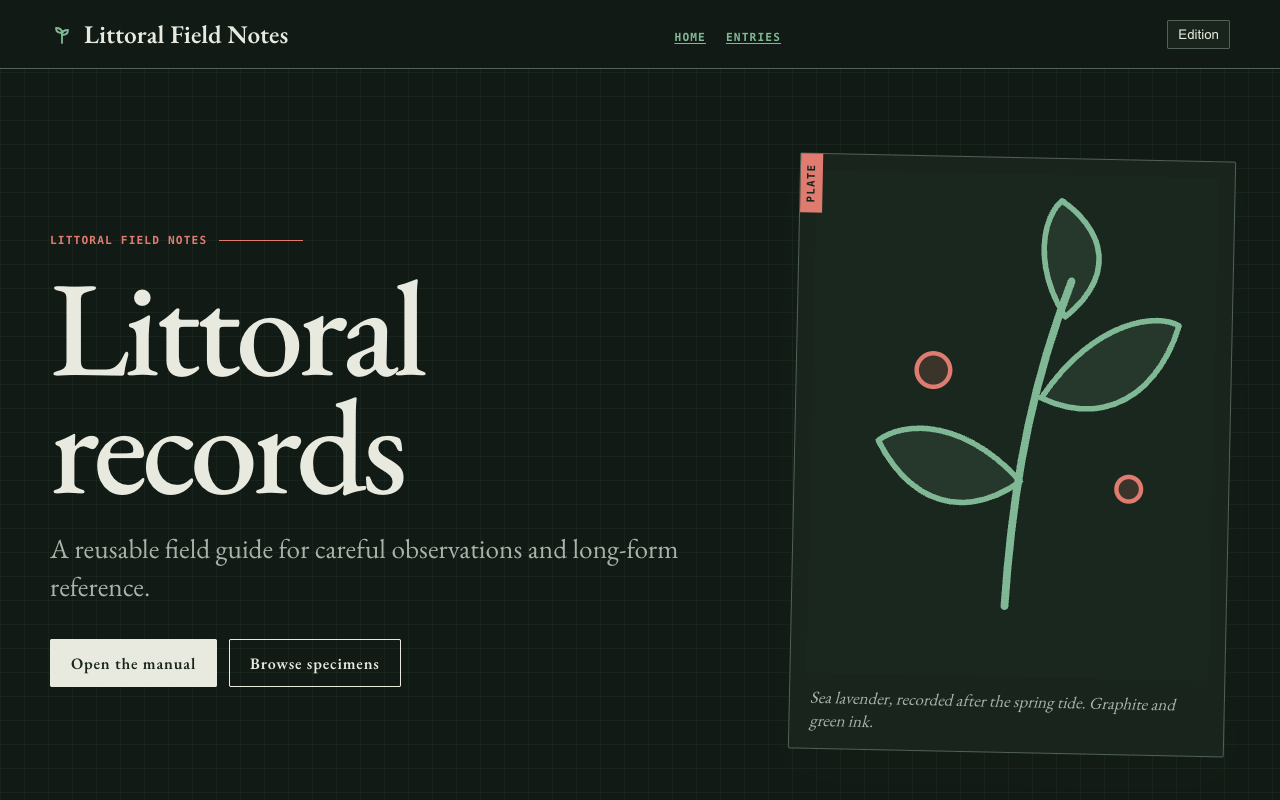
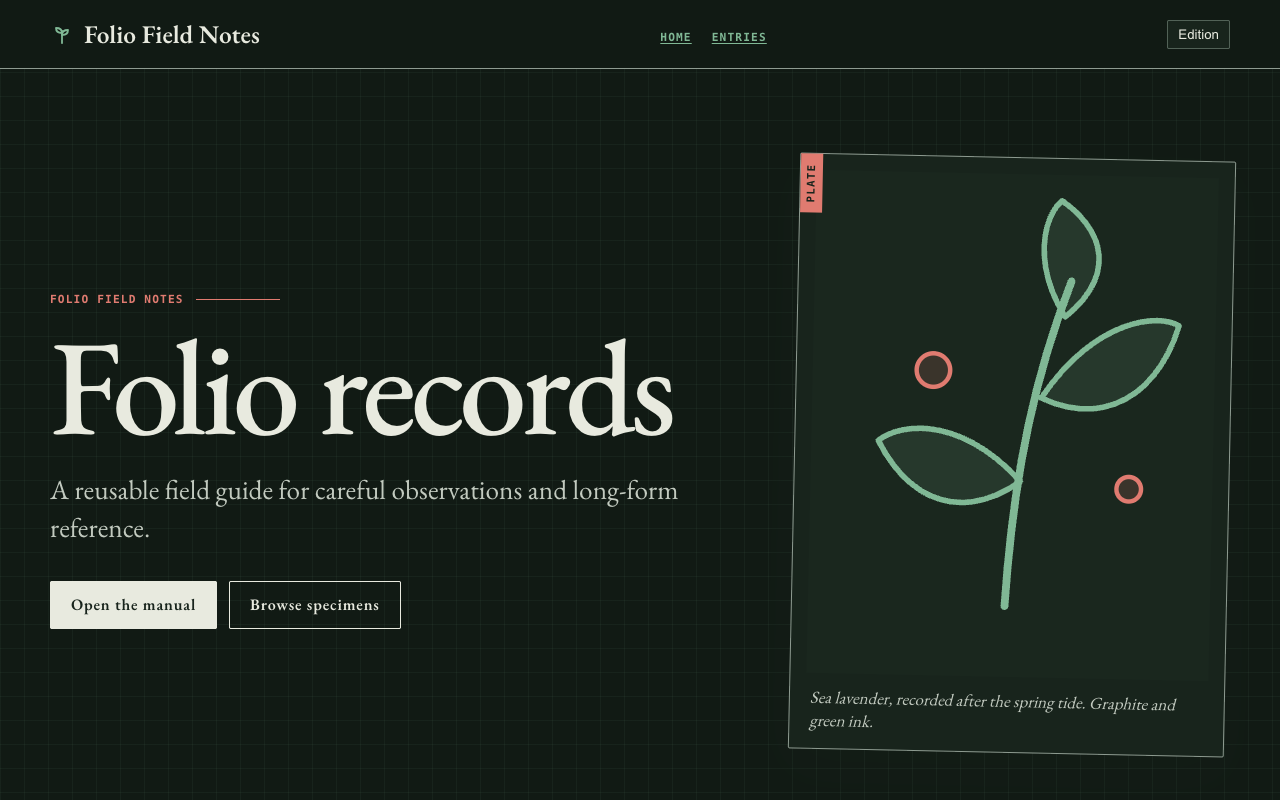
Name every theme example after its theme; enrich the Lattice example
Examples used three naming conventions; a previewer could not tell
which theme a page was demonstrating. Sprout, Kiteframe, Littoral
Field Notes and My Blog become Bloom, Meadow, Folio Field Notes and
Verdant Blog, renamed through the body copy so the header and the
content agree.

Meadow's terminal chrome hardcoded "kiteframe · quickstart" in the
layout, putting a demo brand in every site built with the theme; it now
reads cta.terminal_label, falling back to the site title.

Lattice's example set none of the theme's hero params, so it rendered
defaults and a one-line body next to the real site's full landing page.

diff --git a/themes/meadow/layouts/home.html b/themes/meadow/layouts/home.html
@@ -111,7 +111,8 @@
   <section class="section start" id="start" tl:if="${page.cta}"><div class="wrap"><header class="section-head">
     <span class="kicker lime" tl:text="${page.cta.eyebrow}">Start</span><h2 tl:text="${page.cta.title}">Title</h2>
     <p tl:text="${page.cta.body}">Body</p></header><div class="terminal"><div class="terminal-top">
-    <span aria-hidden="true">● ● ●</span><span>kiteframe · quickstart</span></div>
+    <span aria-hidden="true">● ● ●</span><span
+    tl:text="${page.cta.terminal_label} ?: ${site.title}">Terminal</span></div>
     <div class="command-row"><span class="prompt" aria-hidden="true">$</span><code class="command"
     id="install-command" tl:text="${page.cta.command}">command</code><button class="copy-button" type="button"
     data-copy hidden>Copy</button></div></div><p class="start-note" tl:text="${page.cta.note}">Note</p></div></section>

diff --git a/test/folio_theme_contract_test.dart b/test/folio_theme_contract_test.dart
@@ -407,7 +407,7 @@ $trellis-show-sidenotes: false;
 
     final logo = home.querySelector('.site-title img.site-logo')!;
     expect(logo.attributes['src'], '/trellis/brand/mark.svg');
-    expect(logo.attributes['alt'], 'Littoral Field Notes');
+    expect(logo.attributes['alt'], 'Folio Field Notes');
     expect(home.querySelector('.site-title svg.site-mark'), isNull, reason: 'built-in sprout must step aside');
 
     // Unset keys keep the theme's own artwork rather than emitting an empty <img>.

diff --git a/themes/bloom/example/content/_index.md b/themes/bloom/example/content/_index.md
@@ -1,17 +1,17 @@
 ---
-title: Sprout
+title: Bloom
 layout: home
 description: The calm note-taking app that grows with your ideas.
 
 hero:
-  eyebrow: New — Sprout 2.0
+  eyebrow: New — Bloom 2.0
   title: |
     Notes that grow<br>into something bigger
   subtitle: A calmer place to think.
-  lede: Sprout turns scattered thoughts into structured knowledge — no folders to
+  lede: Bloom turns scattered thoughts into structured knowledge — no folders to
     fuss over, no lock-in, just a quiet space that keeps up with you.
   image: /img/hero.svg
-  image_alt: A Sprout workspace with linked notes
+  image_alt: A Bloom workspace with linked notes
   ctas:
     - label: Start free
       href: "#pricing"
@@ -45,19 +45,19 @@ features:
     body: Markdown in, Markdown out. Works alongside the tools you already trust.
 
 showcase:
-  title: See Sprout in action
+  title: See Bloom in action
   subtitle: A workspace that stays calm even when your ideas don't.
 
 sections:
   - eyebrow: Capture
     title: From fleeting thought to lasting note
-    body: A global shortcut drops you into a blank note anywhere. Sprout remembers
+    body: A global shortcut drops you into a blank note anywhere. Bloom remembers
       where you were and what you were doing, so capture never breaks your flow.
     image: /img/panel-a.svg
     image_alt: Quick-capture panel
   - eyebrow: Connect
     title: Your notes, quietly linked
-    body: As you write, Sprout suggests connections to what you already know.
+    body: As you write, Bloom suggests connections to what you already know.
       Backlinks and an ambient graph reveal structure you didn't plan.
     image: /img/panel-b.svg
     image_alt: Linked notes graph
@@ -65,17 +65,17 @@ sections:
   - eyebrow: Trust
     title: Built to outlive any app
     body: Everything is plain Markdown on your disk. Export the whole vault in one
-      click. If Sprout ever disappears, your knowledge doesn't.
+      click. If Bloom ever disappears, your knowledge doesn't.
 
 pricing:
   title: Simple, honest pricing
-  subtitle: Start free. Upgrade when Sprout earns it.
+  subtitle: Start free. Upgrade when Bloom earns it.
   note: Prices in USD. Cancel anytime — your notes stay yours.
   tiers:
     - name: Seedling
       price: Free
       period: forever
-      description: Everything you need to start thinking in Sprout.
+      description: Everything you need to start thinking in Bloom.
       features:
         - Unlimited local notes
         - Full-text search
@@ -117,7 +117,7 @@ faq:
       a: Yes. Notes are stored as plain Markdown files on your device. Sync is an
         optional, end-to-end encrypted layer on top — never a requirement.
     - q: Can I import from other apps?
-      a: If it exports Markdown or plain text, Sprout can read it. We ship importers
+      a: If it exports Markdown or plain text, Bloom can read it. We ship importers
         for the most common note apps.
     - q: What happens if I cancel?
       a: Nothing happens to your notes — they're already on your disk. Paid features
@@ -134,6 +134,6 @@ cta_band:
     href: "#"
 ---
 
-Sprout began as a weekend project to escape folder-shaped thinking. Today it helps
+Bloom began as a weekend project to escape folder-shaped thinking. Today it helps
 thousands of writers, researchers, and builders turn scattered notes into
 knowledge they can actually find again.

diff --git a/themes/meadow/example/content/_index.md b/themes/meadow/example/content/_index.md
@@ -1,5 +1,5 @@
 ---
-title: Kiteframe
+title: Meadow
 layout: home
 description: Turn scattered customer signals into the next thing worth building.
 hero:
@@ -8,7 +8,7 @@ hero:
     prefix: Turn scattered customer signals into the next thing
     emphasis: worth building.
     suffix: ""
-  lede: Kiteframe brings interviews, support notes, and product ideas into one calm workspace – then helps your team see the patterns worth acting on.
+  lede: Meadow brings interviews, support notes, and product ideas into one calm workspace – then helps your team see the patterns worth acting on.
   ctas:
     - {label: Start free, href: "#start", style: primary}
     - {label: See the workflow, href: "#workflow", style: secondary}
@@ -21,7 +21,7 @@ proof:
     - {value: One source, label: from insight to roadmap}
     - {value: Private by default, label: your data stays yours}
 features:
-  eyebrow: Why Kiteframe
+  eyebrow: Why Meadow
   title: Enough structure to find the signal. Never enough to slow the work.
   body: Start with two focused cards or grow to six. The layout stays balanced as your product story expands.
   items:
@@ -53,12 +53,13 @@ use_cases:
     - {label: 02 · DECIDE, title: Opportunity map, body: Compare evidence and confidence before a promise is made., href: "#start"}
     - {label: 03 · SHARE, title: Release story, body: Close the loop with a clear update tied to the original need., href: "#start"}
 quote:
-  text: Kiteframe gave our roadmap a memory. We make faster calls because the evidence is never more than one click away.
+  text: Meadow gave our roadmap a memory. We make faster calls because the evidence is never more than one click away.
   attribution: Marin Cho · VP Product at Northstar Labs
 cta:
   eyebrow: Developer-friendly
   title: Bring customer context into the tools you already use.
-  body: Start with the SDK, or connect Kiteframe from your workspace in a few minutes.
-  command: dart pub add kiteframe_sdk
+  body: Start with the SDK, or connect Meadow from your workspace in a few minutes.
+  command: dart pub add meadow_sdk
+  terminal_label: meadow · quickstart
   note: No credit card · sandbox workspace included · export whenever you like
 ---

diff --git a/themes/meadow/README.md b/themes/meadow/README.md
@@ -55,12 +55,13 @@ Meadow implements all 18 [standard params](../../docs/reference/standard-params.
 | `workflow` | `eyebrow`, `title`, `body`, `signals[].{initials,name,source,text,tag}`, `insight.{label,title,body,confidence}` |
 | `use_cases` | `eyebrow`, `title`, `body`, `items[].{label,title,body,href}` |
 | `quote` | `text`, `attribution` |
-| `cta` | `eyebrow`, `title`, `body`, `command`, `note` |
+| `cta` | `eyebrow`, `title`, `body`, `command`, `note`, optional `terminal_label` |
 
 Only `headline.emphasis` receives Meadow's theme-owned marker. Supplying `hero.media` enables the illustration slot;
 without it, a split hero centers and reserves no media gap. Add `media.src` — a prefix-relative image path — to mount
 your own artwork there; with only `media.alt` the theme-owned trellis drawing is used. Markdown below front matter
-renders once.
+renders once. `cta.terminal_label` names the terminal chrome and falls back to the site title, so no demo brand
+is baked into the layout.
 Each optional block may be omitted independently and removes its wrapper and spacing.
 
 Feature lists support exactly the authored 2–6 cards, cycling four treatments in a three-column desktop and

diff --git a/themes/lattice/example/content/_index.md b/themes/lattice/example/content/_index.md
@@ -1,7 +1,12 @@
 ---
-title: Lattice Preview
+title: Lattice
 layout: home
-description: A complete home and documentation experience for Trellis sites.
+description: A complete home and documentation experience for one Trellis theme.
 ---
 
-This authored body proves that Lattice preserves home-page Markdown content.
+Everything below the hero is ordinary page content. Lattice renders a landing page and a full documentation
+surface from the same theme, so the marketing page and the reference material share one visual language
+instead of drifting apart.
+
+Sections, the in-page index, and previous/next travel all come from the content tree — add a folder and the
+navigation follows.

diff --git a/themes/bloom/example/content/privacy.md b/themes/bloom/example/content/privacy.md
@@ -1,6 +1,6 @@
 ---
 title: Privacy
-description: How Sprout handles your data — the short, honest version.
+description: How Bloom handles your data — the short, honest version.
 ---
 
 ## The short version
@@ -10,7 +10,7 @@ We can't read them, we don't sell them, and we never train anything on them.
 
 ## What we collect
 
-When you use Sprout without an account, we collect **nothing**. No telemetry, no
+When you use Bloom without an account, we collect **nothing**. No telemetry, no
 analytics, no phone-home.
 
 If you opt into encrypted sync, we store an end-to-end encrypted blob so your

diff --git a/themes/meadow/example/fixtures/hero-image/_index.md b/themes/meadow/example/fixtures/hero-image/_index.md
@@ -1,10 +1,10 @@
 ---
-title: Kiteframe
+title: Meadow
 layout: home
 hero:
   headline: {prefix: Ship, emphasis: today., suffix: ""}
   lede: A landing page that supplies its own hero artwork.
   ctas: [{label: Start, href: "#start", style: primary}]
   media: {src: art/hero.webp, alt: Product screenshot}
-cta: {eyebrow: Start, title: Ready., body: Begin now., command: dart pub add kiteframe_sdk, note: Local and fast.}
+cta: {eyebrow: Start, title: Ready., body: Begin now., command: dart pub add meadow_sdk, note: Local and fast.}
 ---

diff --git a/themes/meadow/example/fixtures/copy-short/_index.md b/themes/meadow/example/fixtures/copy-short/_index.md
@@ -1,5 +1,5 @@
 ---
-title: Kiteframe
+title: Meadow
 layout: home
 hero:
   headline: {prefix: Ship, emphasis: today., suffix: ""}
@@ -10,5 +10,5 @@ features:
   title: Clear choices.
   body: Ready.
   items: [{icon: ✦, title: Fast, body: Ready now.}, {icon: ✓, title: Clear, body: Ship today.}]
-cta: {eyebrow: Start, title: Ready., body: Begin now., command: dart pub add kiteframe_sdk, note: Local and fast.}
+cta: {eyebrow: Start, title: Ready., body: Begin now., command: dart pub add meadow_sdk, note: Local and fast.}
 ---

diff --git a/themes/meadow/example/fixtures/no-media/_index.md b/themes/meadow/example/fixtures/no-media/_index.md
@@ -5,5 +5,5 @@ hero:
   headline: {prefix: Centered, emphasis: naturally., suffix: ""}
   lede: This split-configured hero has no media and reserves no gap.
   ctas: [{label: Start, href: "#start", style: primary}]
-cta: {eyebrow: Start, title: Ready., body: Begin., command: dart pub add kiteframe_sdk, note: No media required.}
+cta: {eyebrow: Start, title: Ready., body: Begin., command: dart pub add meadow_sdk, note: No media required.}
 ---

diff --git a/themes/meadow/example/fixtures/copy-long/_index.md b/themes/meadow/example/fixtures/copy-long/_index.md
@@ -1,5 +1,5 @@
 ---
-title: Kiteframe
+title: Meadow
 layout: home
 hero:
   headline:
@@ -20,6 +20,6 @@ cta:
   eyebrow: Developer-friendly
   title: Bring the complete workflow into the tools your growing team already uses.
   body: Start with the SDK and add only what the product needs.
-  command: dart pub add kiteframe_sdk
+  command: dart pub add meadow_sdk
   note: No client framework or Node-based build chain required.
 ---

diff --git a/themes/meadow/example/content/about.md b/themes/meadow/example/content/about.md
@@ -1,9 +1,9 @@
 ---
-title: About Kiteframe
+title: About Meadow
 description: A readable single page in the Meadow shell.
 ---
 
-Kiteframe keeps evidence close to product decisions.
+Meadow keeps evidence close to product decisions.
 
 ```dart
 final signal = 'customer context';
